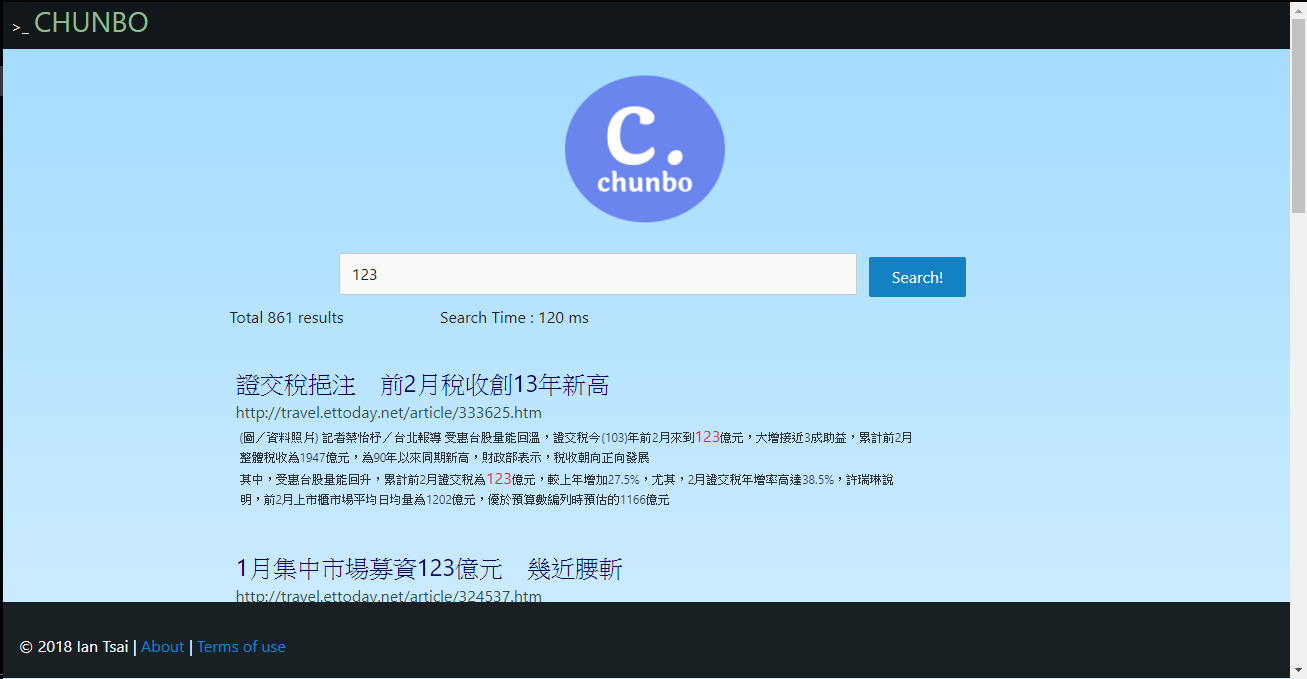
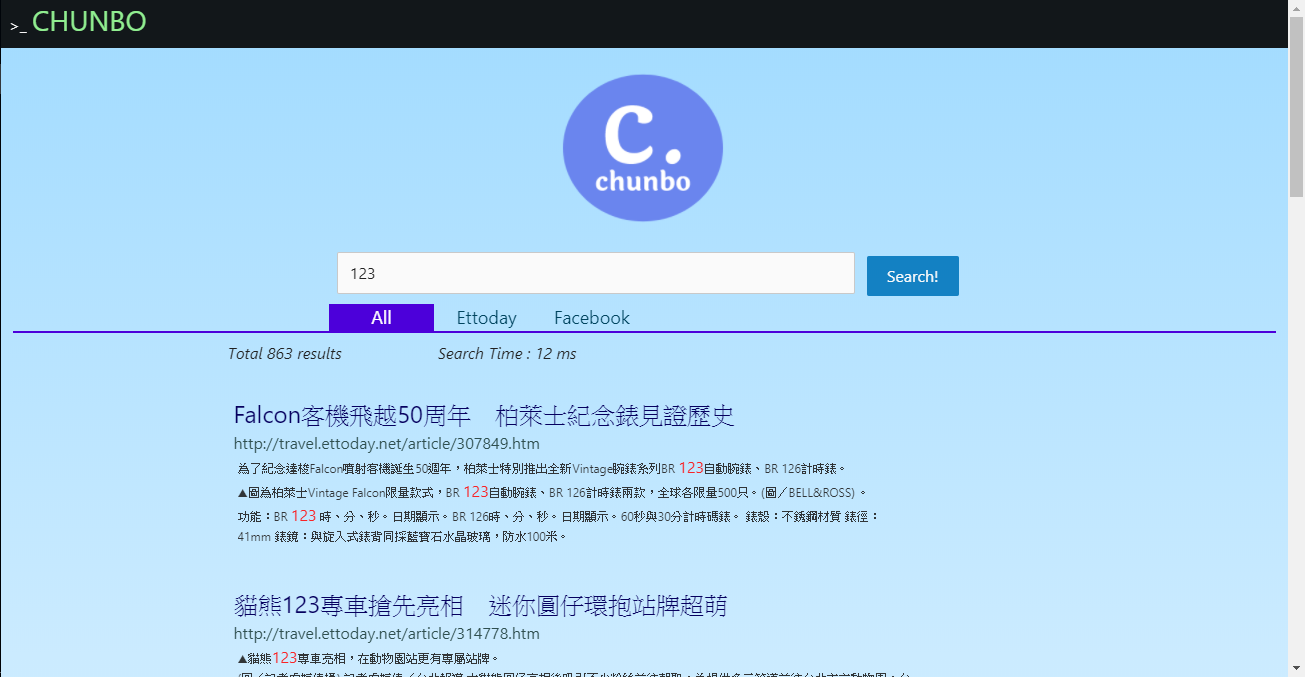
update

diff --git a/hw1/index.html b/hw1/index.html
@@ -14,7 +14,7 @@
     <body ng-app="myApp" >
         <header class="sticky">
             <span>>_</span>
-            <a href="#" class="logo" style="color:darkseagreen;">CHUNBO</a>
+            <a href="#" class="logo" style="color:lightgreen;">CHUNBO</a>
         </header>
         <main>
             <div class="container margintop10" ng-controller="mainController">
@@ -30,16 +30,24 @@
                         <input id="search" type="text" ng-model="searchtext.content" placeholder="Search...">
                     </div>
                     <div class="col-sm-4 col-md-3 col-lg-1">
-                        <input class="primary" type="submit" ng-click="search(searchtext.content, 1)" value="Search!"/>
+                        <span class="tooltip" aria-label="Go search okay?">
+                            <input class="primary" type="submit" ng-click="search(searchHost.all, searchtext.content, 1)" value="Search!"/>
+                        </span>
                     </div>
 
                     
                 </div>
-                <div class="row">
-                    <div class="col-sm-6 col-md-4 col-lg-2 col-lg-offset-2">{{ searchResult.resultTotal }}</div>
-                    <div class="col-sm-6 col-md-4 col-lg-2 ">{{ searchResult.searchTime }}</div>
+                <div class="row chooseBar" ng-if="searchHost.show">
+                    <div class="col-sm-4 col-md-3 col-lg-1 col-lg-offset-3 class" ng-if="searchHost.show" ng-click="search(searchHost.all, searchtext.content, 1)">All</div>
+                    <div class="col-sm-4 col-md-3 col-lg-1 class" ng-if="searchHost.show" ng-click="search(searchHost.news, searchtext.content, 1)">Ettoday</div>
+                    <div class="col-sm-4 col-md-3 col-lg-1 class" ng-if="searchHost.show" ng-click="search(searchHost.facebook, searchtext.content, 1)">Facebook</div>
                 </div>
-                <div class="row bottom" style="margin-top: 5px">
+                <div class="row" style="margin-top:8px;">
+                    <div class="col-sm-6 col-md-4 col-lg-2 col-lg-offset-2"><em>{{ searchResult.resultTotal }}</em></div>
+                    <div class="col-sm-6 col-md-4 col-lg-2 "><em>{{ searchResult.searchTime }}</em></div>
+                </div>
+                
+                <div class="row bottom" >
                     <div class="col-sm-11 col-md-10 col-lg-8 col-lg-offset-2 resultInfo" ng-repeat="result in response.hits.hits"> 
                         <a href="{{ result._source.url }}" style="font-size:24;">{{ result._source.title }}</a><br>
                         <a href="{{ result._source.url }}" style="color:darkslategray;">{{ result._source.url }}</a>
@@ -53,8 +61,9 @@
                 <div class="row">
                     <div class="col-sm-10 col-md-8 col-lg-6 col-lg-offset-3">
                         <div class="row">
+                            <div class="col-sm-2 col-md-1 col-lg-1" ng-if="searchPages[0].display">page</div>
                             <div class="col-sm-1 col-md-1 col-lg-1 page" 
-                                ng-click="search(searchtext.content, page.num)"  ng-if="page.display" 
+                                ng-click="search(page.url, searchtext.content, page.num)"  ng-if="page.display" 
                                 ng-repeat="page in searchPages">
                                 {{ page.num }}
                             </div>

diff --git a/hw1/mainController.js b/hw1/mainController.js
@@ -8,8 +8,14 @@ app.controller('mainController', ['$scope','$http', '$sce', function($scope, $ht
   $scope.searchtext = {
     "content":""
   }
-  $scope.searchHost = 'http://localhost:9200/_search';
-
+  //request url
+  $scope.searchHost = {
+    "show" : false,
+    "all" :'http://localhost:9200/_search',
+    "news" : 'http://localhost:9200/test/_search',
+    "facebook" :'http://localhost:9200/facebook/_search'
+  }
+  //query body
   $scope.body = {
     "query":{
       "match" :{
@@ -27,33 +33,43 @@ app.controller('mainController', ['$scope','$http', '$sce', function($scope, $ht
   }
 
   $scope.searchPages = [{
+      "url" : '',
       "num":1,
       "display": false
     }, {
+      "url" : '',
       "num":2,
       "display": false
     }, {
+      "url" : '',
       "num":3,
       "display": false
     }, {
+      "url" : '',
       "num":4,
       "display": false
     }, {
+      "url" : '',
       "num":5,
       "display": false
     }, {
+      "url" : '',
       "num":6,
       "display": false
     }, {
+      "url" : '',
       "num":7,
       "display": false
     }, {
+      "url" : '',
       "num":8,
       "display": false
     }, {
+      "url" : '',
       "num":9,
       "display": false
     } , {
+      "url" : '',
       "num":10,
       "display": false
   }];
@@ -64,35 +80,50 @@ app.controller('mainController', ['$scope','$http', '$sce', function($scope, $ht
   }
   
   $scope.response = ''
-  $scope.search = function(val, page){
+
+  //search function
+  $scope.search = function(url, val, page){
+    if(val.length === 0){
+      console.log('Empty');
+      return;
+    }
     $scope.body.query.match.content = val;
     $scope.body.from = (page - 1) * 10;
     let total = 0;
-    $scope.response = $http.post($scope.searchHost, $scope.body,{
+
+    //post request
+    $scope.response = $http.post(url, $scope.body,{
         headers: {
           'Access-Control-Allow-Origin':'*'
         },  
       }).then(function(response){
-        //console.log(response.data);
+        ///get response
         $scope.response = response.data;
+        ///total result
         total = $scope.response.hits.total;
         $scope.searchResult.resultTotal = 'Total ' + total  + ' results' 
+        ///pages show control
         $scope.searchPages.forEach(function(p, i){
+          p.url = url
           if((p.num - 1) * 10 < total){
             p.display = true;
-            //console.log(p);
           }
           else{
             p.display = false;
           }
         });
+        ///search time show
         $scope.searchResult.searchTime = 'Search Time : ' + $scope.response.took+ ' ms'
         //$scope.highlightInfo = $scope.response.hits.hits.highlight.content.for;
+        
         return response.data.hits;
       })
       .catch(function (error) {
         console.log(error);
       });
+    
+    $scope.searchHost.show = true;
+    window.scrollTo(0, 0);
     //console.log(res);
     
   }

diff --git a/hw1/main.css b/hw1/main.css
@@ -35,6 +35,7 @@ a:visited{
     font-size: 12;
 }
 .resultInfo{
+    overflow: hidden;
     padding: 10px;
     margin-top:20px;
     border-radius: 7px;
@@ -74,6 +75,21 @@ input:hover{
     transition: .2s;    
     background-color: rgba(0, 0, 0, 0.459)
 }
+
+.class{
+    color: rgb(0, 68, 95);
+    font-size: 18px;
+    cursor:pointer;
+    text-align: center;
+}
+
+.class:hover{
+    color: white;
+    transition: .2s;   
+    border-bottom: rgba(34, 240, 255, 0.911); 
+    background-color: rgb(76, 0, 218);
+}
+
 main {
     min-height: 83%;
 }
@@ -92,4 +108,10 @@ footer p {
     header{
         width: 100%;
     }
+}
+
+.chooseBar{
+    border-style: solid;
+    border-width: 0 0 2 0;
+    border-color: rgb(76, 0, 218);
 }
